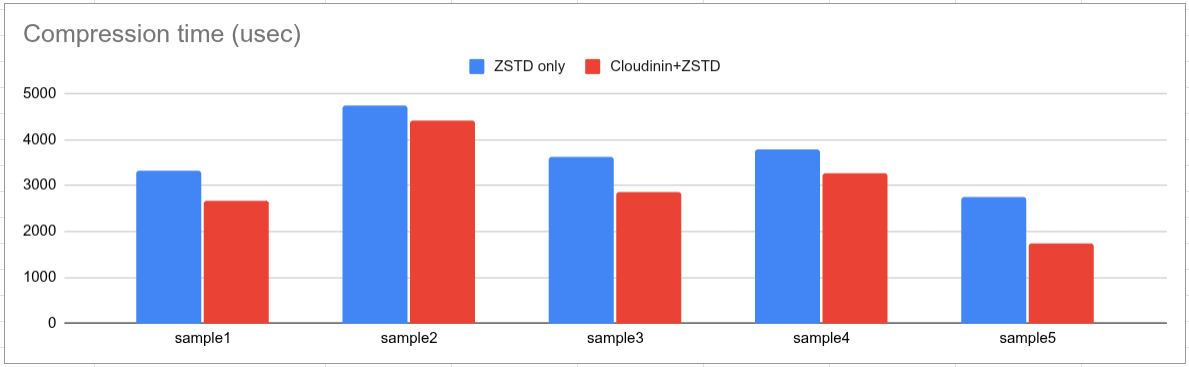
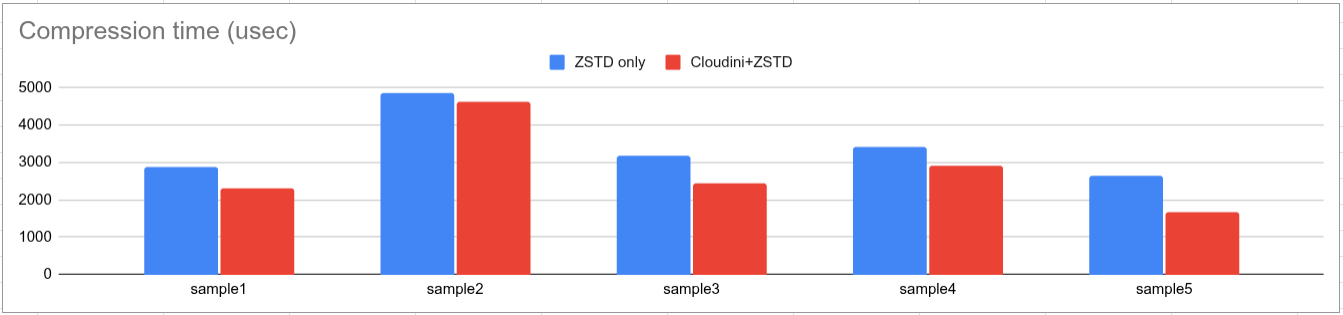
fixed benchmark

diff --git a/cloudini_ros/test/rosbag_benchmark.cpp b/cloudini_ros/test/rosbag_benchmark.cpp
@@ -45,7 +45,9 @@ struct Statistics {
 
 void compress(const sensor_msgs::msg::PointCloud2& msg, const Cloudini::EncodingInfo& encoding_info, StatsData& stats) {
   Cloudini::PointcloudEncoder encoder(encoding_info);
-  std::vector<uint8_t> compressed_data;
+  static std::vector<uint8_t> compressed_data;
+  compressed_data.clear();
+  compressed_data.reserve(msg.data.size());
   Cloudini::ConstBufferView input(msg.data.data(), msg.data.size());
 
   auto t1 = std::chrono::high_resolution_clock::now();
